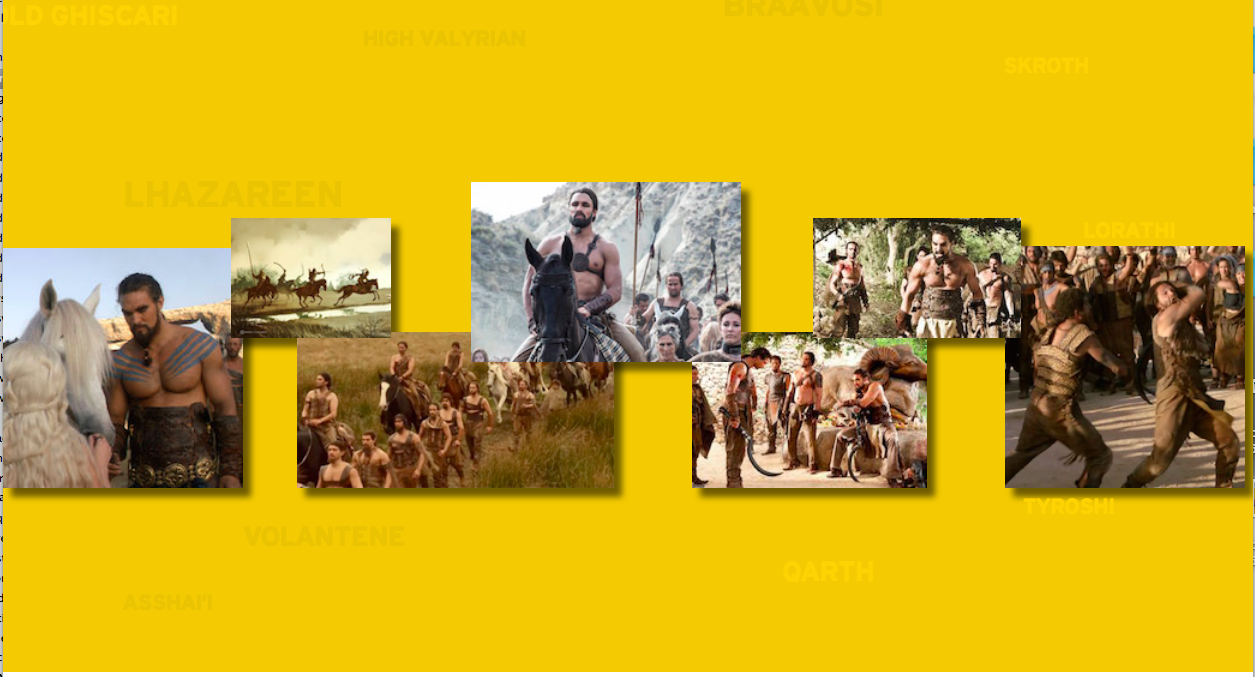
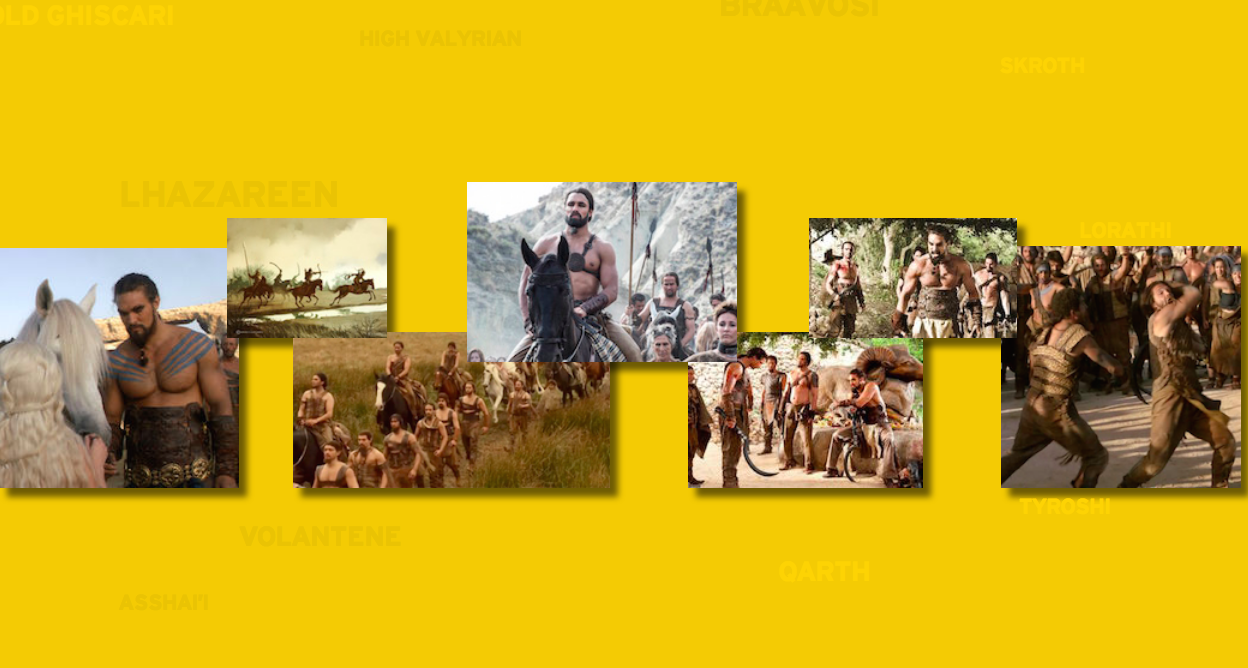
finishes header

Changed region(s): [[0.0, 0.2695, 1.0, 0.7485], [0.0, 0.988, 1.0, 1.0], [0.1875, 0.2994, 0.3125, 0.3293]]

diff --git a/css/index.less b/css/index.less
@@ -27,155 +27,89 @@ body {
 	font-family: "Hit The Road";
 
 	.header {
+		background-image: url('background.png');
+		background-position: center bottom;
+		background-repeat: no-repeat;
+		background-size: cover;
+		height: 33rem;
+		overflow: auto;
+	}
+	.header2 {
+		background-image: url('background.png');
+		background-position: center bottom;
+		background-repeat: no-repeat;
+		background-size: cover;
+		height: 16rem;
+		overflow: auto;
+	}
+
+	.title {
 		width: 100%;
-		height: 35rem;
-		background-color: @yellow;
-
-		.title {
-			width: 100%;
+		height: 76px;
+		margin-top: 35px;
+		
+		.wolf {
+			display: block;
+			margin-left: 440px;
+			margin-top: -75px;
+		}
+		.rosetta {
+			margin-left: 5%;
+			margin-top: 0px;
+			margin-bottom: 0px;
+			font-size: 3.8em;
 			height: 76px;
+			display: inline-block;
+			font-weight: lighter;
+		}
+		.throne {
+			display: inline-block;
+		}
+		.course {
+			text-align: right;
+			margin-top: 0;
+			margin-bottom: 0;
+			display: inline-block;
+			padding-left: 200px;
+			width: 152px;
 
-			.rosetta {
-				margin-left: 5%;
-				margin-top: 0px;
-				margin-bottom: 0px;
-				font-size: 3.8em;
-				height: 76px;
-				display: inline-block;
-				font-weight: lighter;
-			}
-			.throne {
-				display: inline-block;
-			}
-			.course {
-				text-align: right;
+			.dothraki {
+				font-size: 2em;
 				margin-top: 0;
 				margin-bottom: 0;
-				display: inline-block;
-				padding-left: 15%;
-				width: 175px;
+				text-align: center;
+			}
+			hr {
+				margin-top: 0;
+				margin-bottom: 0;
+				color: black;
+				border: solid 1px black;
+				border-color: black;
+				border-bottom-color: black;
+				border-top-color: black;
+			}
+			h3 {
+				margin-top: 0;
+				margin-bottom: 0;
+				text-align: center;
+			}
+		}
+	}
+	.landingPage {
+		background-color: @yellow;
+		width: 100%;
+		height: 650px;
 
-				.dothraki {
-					font-size: 2em;
-					margin-top: 0;
-					margin-bottom: 0;
-					text-align: center;
-				}
-				hr {
-					margin-top: 0;
-					margin-bottom: 0;
-					color: black;
-				}
-				h3 {
-					margin-top: 0;
-					margin-bottom: 0;
-					text-align: center;
-				}
-			}
-		}
-
-		.images {
-			display: inline-block;
-
-			.one {
-				box-shadow: 7px 7px 5px @trsblack;
-				z-index: 1;
-			} 
-			.four {
-				box-shadow: 7px 7px 5px @trsblack;
-				z-index: 3;
-				margin-left: 190px;
-				margin-top: -100px;
-				display: block;
-			}
-			.five {
-				box-shadow: 7px 7px 5px @trsblack;
-				z-index: 1;
-				margin-left: 45px;
-			}
-			.three {
-				box-shadow: 7px 7px 5px @trsblack;
-				z-index: 3;
-				margin-left: 65px;
-			}
-			.six {
-				box-shadow: 7px 7px 5px @trsblack;
-				z-index: 1;
-				margin-left: 65px;
-			}
-			.seven {
-				box-shadow: 7px 7px 5px @trsblack;
-				z-index: 4;
-				display: block;
-				margin-left: 390px;
-				margin-top: -260px;
-			}
-			.two {
-				box-shadow: 7px 7px 5px @trsblack;
-				z-index: 1;
-				display: block;
-				margin-left: 675px;
-				margin-top: -120px;
-			}
-
-		}
-
-		.languages {
-			z-index: -1;
-			margin-top: 0;
-			margin-bottom:0;
-		}
-
-		.a {
-			margin-top: 0px;
-			margin-left: -1%;
-			color: @ltyellow;
-		}
-		.b {
-			margin-left: 300px;
-			color: @dkyellow;
-		}
-		.c {
-			margin-top: -40px;
-			margin-left: 600px;
-			color: @dkyellow;
-			font-size: 1.75em;
-		}
-		.d {
-			margin-left: 900px;
-			color: @ltyellow;
-			font-size: 1.2em;
-		}
-		.e {
-			margin-left: 100px;
-			color: @dkyellow;
-			font-size: 2em;
-		}
-		.f {
-			color: @ltyellow;
-		}
-		.g {
-			color: @ltyellow;
-		}
-		.r {
-			color: @ltyellow;
-			margin-left: 80%
-		}
-		.j {
-			color: @ltyellow;
-			margin-left: 850px;
-		}
-		.k {
-			color: @dkyellow;
-			margin-left: 200px;
-		}
-		.o {
-			color: @ltyellow;
-			margin-left: 650px;
-		}
-		.n {
-			color: @dkyellow;
-			margin-left: 100px;
+		.start {
+			color: @offwhite;
+			text-decoration: none;
+			border: solid 1px @blue;
+			padding: 10px;
+			border-radius: 10px;
+			background-color: @blue;
+			font-weight: lighter;
+			margin-left: 45%;
+			margin-bottom: 20px;
 		}
 	}
 }

diff --git a/js/header.jsx b/js/header.jsx
@@ -1,29 +1,12 @@
-/* <h1 className='rosetta'>Rosetta</h1><img src='./throne.png' className='throne'/><img src='./wolf.png'/>
-			<div className='course'><h2 className='dothraki'>DOTHRAKI</h2><hr/><h3>Level 1, 2, 3, 4, 5</h3></div>*/
-
 var React = require('react');
 
 var Header = React.createClass({
 
   render: function() {
     return(
-    	<div className='header'>
-    		<h2 className='languages a'>OLD GHISCARI</h2>
-    		<h2 className='languages c'>BRAAVOSI</h2>
-			<h3 className='languages b'>HIGH VALYRIAN</h3>
-			<h3 className='languages r'>SKROTH</h3>
-			<div className='title'></div>
-			<h2 className='languages e'>LHAZAREEN</h2>
-			<h3 className='languages d'>LORATHI</h3>
-			<div className='images'><img src='./dothraki.jpg' className='one'/><img src='./dothraki5.jpg' className='five'/><img src='./dothraki3.jpg' className='three'/><img src='./dothraki6.png' className='six'/><img src='./dothraki7.jpg' className='seven'/><img src='./dothraki2.jpg' className='two'/><img src='./dothraki4.jpg' className='four'/></div>
-			<h3 className='languages j'>TYROSHI</h3>
-			<h2 className='languages k'>VOLANTENE</h2>
-			<h2 className='languages o'>QARTH</h2>
-			<h3 className='languages n'>ASSHAI'I</h3>
-			
-			
-			
-    	</div>   
+    	<div className={this.props.cls}>
+    		<div className='title'><h1 className='rosetta'>Rosetta</h1><img src='./throne.png' className='throne'/><div className='course'><h2 className='dothraki'>DOTHRAKI</h2><hr/><h3>Level 1, 2, 3, 4, 5</h3></div><img src='./wolf.png' className='wolf'/></div>
+		</div>   
     );
   }
 });

diff --git a/js/landing-page.jsx b/js/landing-page.jsx
@@ -1,6 +1,7 @@
 var React = require('react');
 var router = require('react-router');
 var actions = require('./actions');
+var Header = require('./header');
 var connect = require('react-redux').connect;
 var Link = router.Link;
 
@@ -12,7 +13,10 @@ var LandingPage = React.createClass({
 
   render: function() {
     return(
-        <Link to={'/practice'} className="links" onClick={this.getQuestions}>Start learning</Link>
+    	<div className='landingPage'>
+    		<Header cls='header'/>
+        	<Link to={'/practice'} className="start" onClick={this.getQuestions}>Start learning</Link>
+    	</div>
     );
   }
 });

diff --git a/js/quiz-page.jsx b/js/quiz-page.jsx
@@ -1,5 +1,6 @@
 var React = require('react');
 var actions = require('./actions');
+var Header = require('./header');
 var connect = require('react-redux').connect;
 
 var QuizPage = React.createClass({
@@ -18,6 +19,7 @@ var QuizPage = React.createClass({
    }
     return (
       <div>
+        <Header cls='header2'/>
         <div>{this.props.questions[this.props.questionNumber].prompt}</div>
         <form onSubmit={this.onFormSubmit}>
           <input type="text" ref="userInput" placeholder="Your answer" required/>

diff --git a/js/index.jsx b/js/index.jsx
@@ -11,7 +11,6 @@ import { useScroll } from 'react-router-scroll';
 
 var actions = require('./actions');
 var store = require( './store' );
-var Header = require('./header');
 var LandingPage = require('./landing-page')
 var QuizPage = require('./quiz-page')
 
@@ -19,9 +18,7 @@ var QuizPage = require('./quiz-page')
 var App = function(props) {
   return (
     <div>
-      <div>
-        {props.children}
-      </div>
+      {props.children}
     </div>
   );
 };
